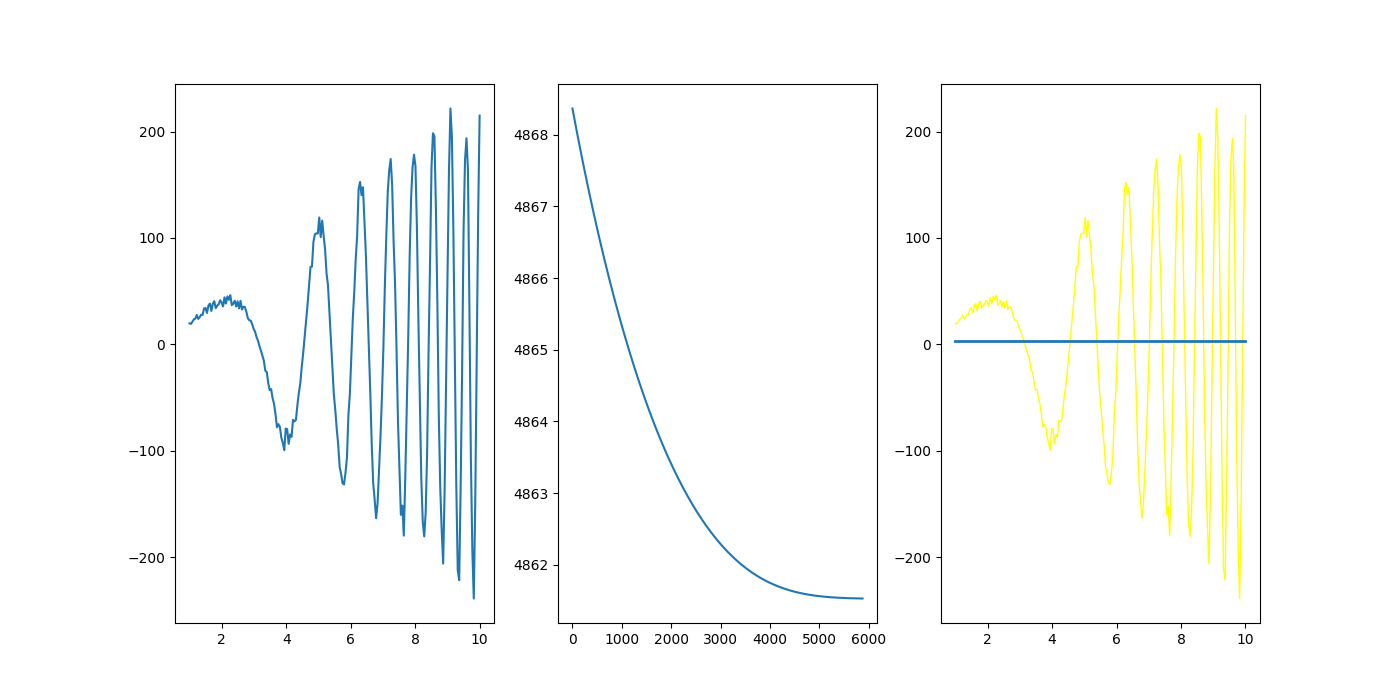
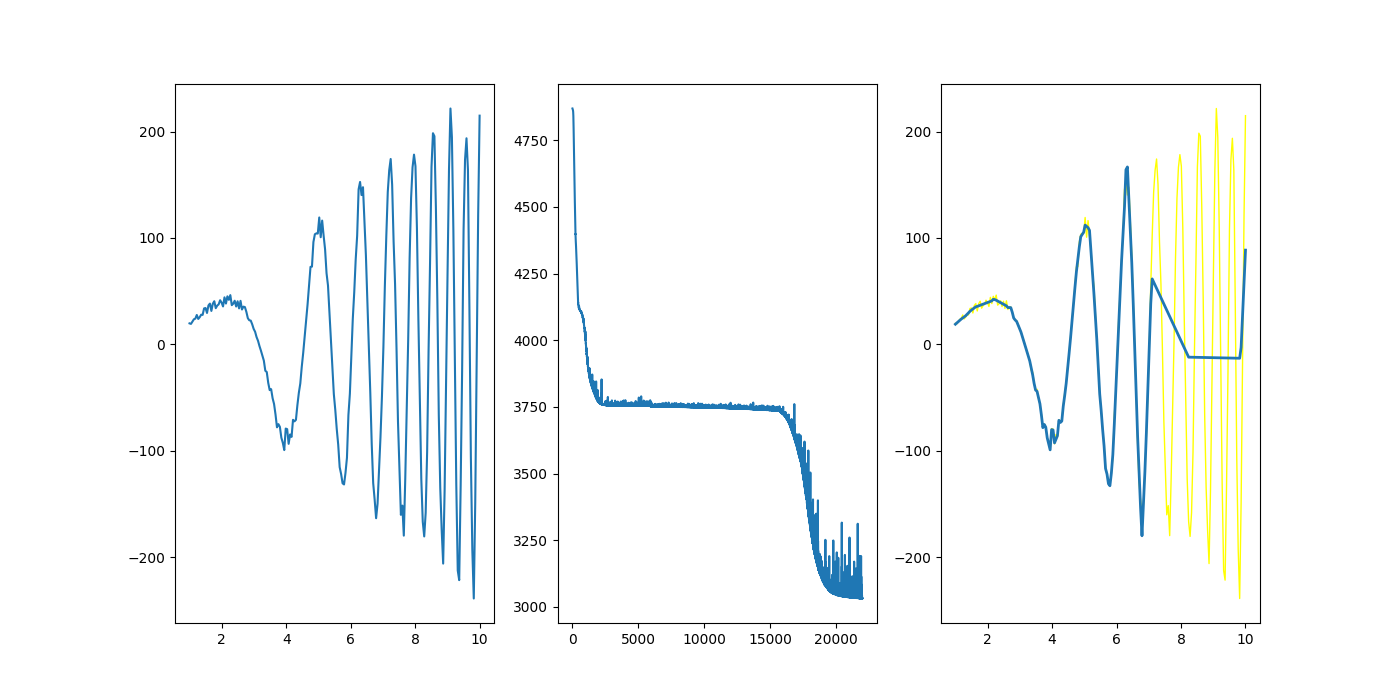
Mudanças no teste 5, sim3

diff --git a/main.py b/main.py
@@ -17,7 +17,7 @@ regr1 = MLPRegressor(hidden_layer_sizes=(4,2),max_iter=12000,activation='relu',s
 
 regr2 = MLPRegressor(hidden_layer_sizes=(6,4,3),max_iter=16000,activation='relu',solver='adam',learning_rate='adaptive',n_iter_no_change=800)
 
-regr3 = MLPRegressor(hidden_layer_sizes=(8,4,2),max_iter=22000,activation='relu',solver='adam',learning_rate='adaptive',n_iter_no_change=1000)
+regr3 = MLPRegressor(hidden_layer_sizes=(70,60,50,40,30,20),max_iter=22000,activation='relu',solver='adam',learning_rate='adaptive',n_iter_no_change=1000)
 
 regr = regr3
 
